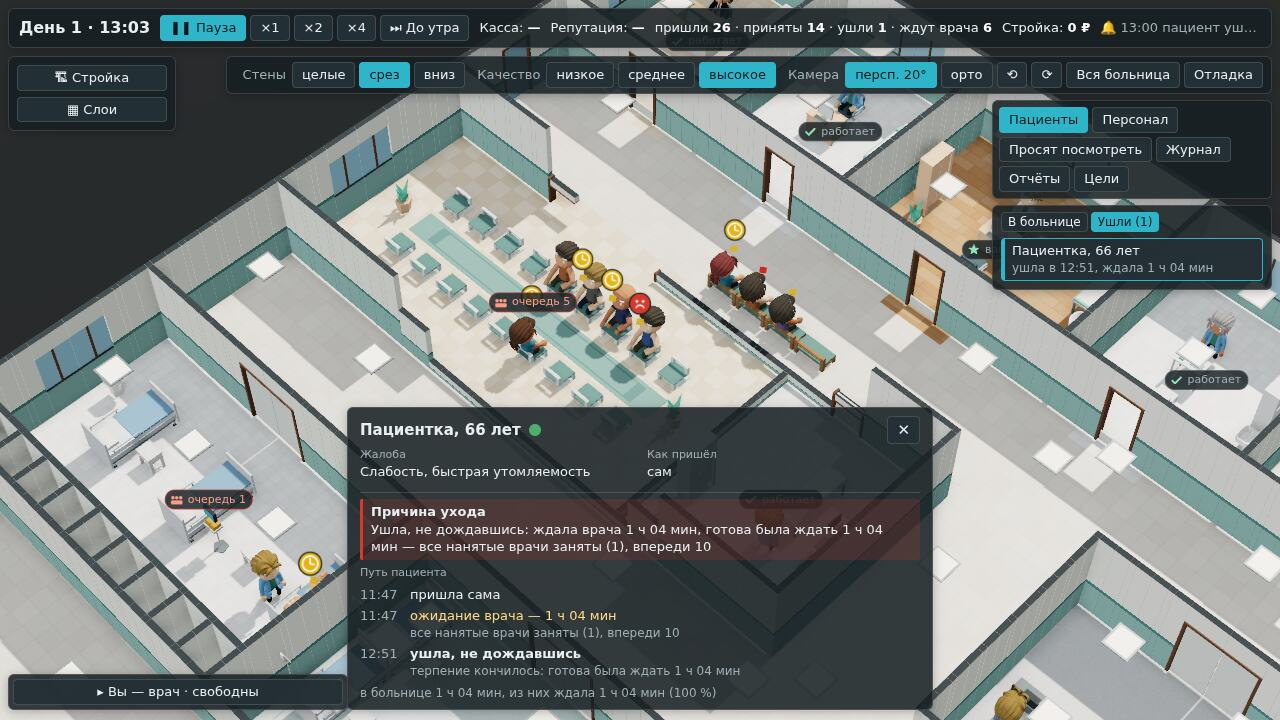
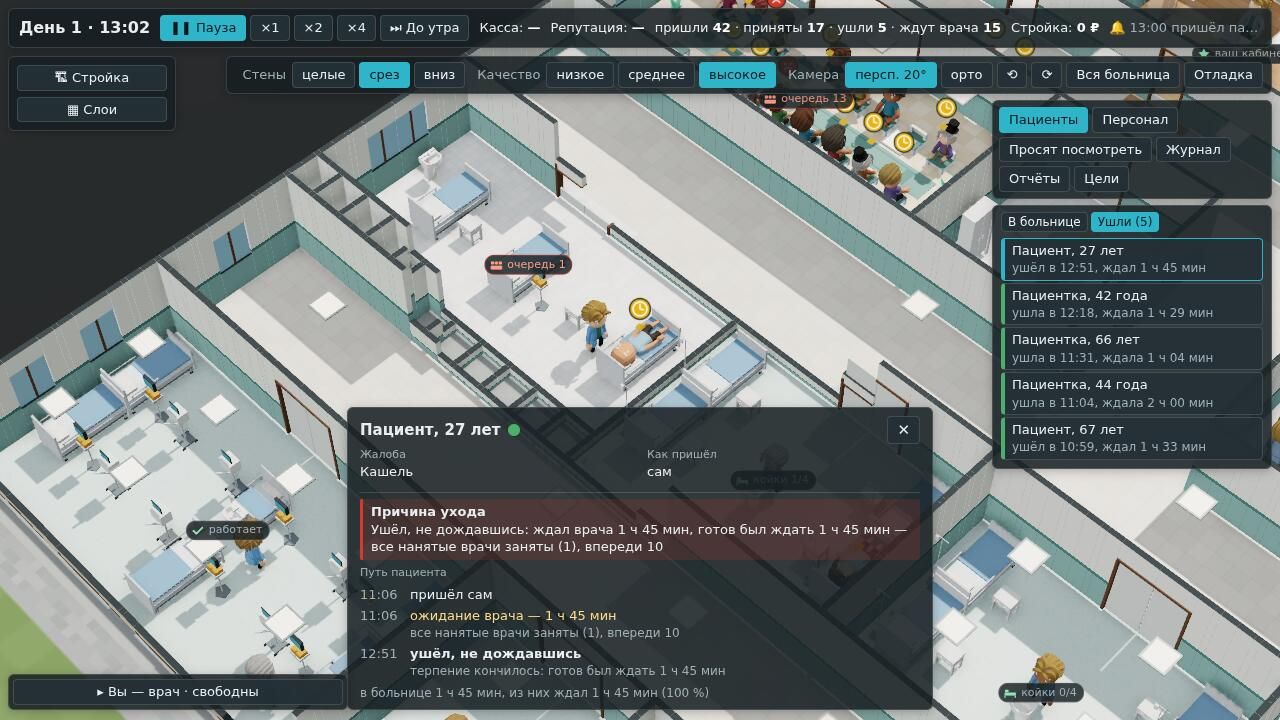
Часть 3 на коде с сутками целиком: снимки заново, бенч `main` и ветки по очереди, проверки — в спецификации
Снимки части 3 — на слитом коде (к 13:00 в зале очередь 13: поток по часам суток). Бенч — `main` e0a3491 и ветка на нём,
прогоны по очереди, каждый в своей копии: разброс одной стороны до 13 %, по средним ветка медленнее на 1,5–8 %, в парах
с равной нагрузкой — на 0–5 %; прямая цена `journey.*` — 0,2 %. `npm test` — 661, все зелёные; сценарий — 61 проверка.

Claude-Session: https://claude.ai/code/session_01YM2DkxcMJ4fGTUC8wUjV2Z

diff --git a/docs/specs/2026-10-flow-ui.md b/docs/specs/2026-10-flow-ui.md
@@ -250,14 +250,14 @@
 параллельные сессии других частей.
 
 **Что видит игрок.** В готовой больнице к полудню у единственного терапевта — очередь: над ждущими в зале — жёлтые
-часы («ждёт долго»), у того, чьё терпение на исходе, — красное недовольное лицо; кто не дождался, встаёт и идёт к выходу
-с этим значком. Над залом — «очередь 9», над смотровой — «очередь 1», над палатами — «койки 0/4», над остальными —
-«работает», «занято», «ваш кабинет». Tab открывает «Пациентов»: сверху — кто ждёт дольше всех, фильтры по срочности, месту
-и «ждут 30 мин и дольше»; щелчок — камера летит к человеку, снизу — его карточка с путём: «11:30 пришёл сам · 11:30
-ожидание врача — 1 ч 31 мин · сейчас — все нанятые врачи заняты (1), впереди 7». «Ушли» — кто ушёл, не дождавшись; у
-него в карточке первой строкой: «Причина ухода. Ушла, не дождавшись: ждала врача 1 ч 04 мин, готова была ждать 1 ч 04 мин
-— все нанятые врачи заняты (1), впереди 10». L красит пол зала и смотровой в красный, над ними — «очередь 11 · до 1 ч 11
-мин».
+часы («ждёт долго»), у тех, чьё терпение на исходе, — красное недовольное лицо; кто не дождался, встаёт и идёт к выходу
+с этим значком. Над залом — «очередь 13», над смотровой — «очередь 1», над палатами — «койки 1/4», над остальными —
+«работает», «занято», «ваш кабинет». Tab открывает «Пациентов»: сверху — кто ждёт дольше всех, фильтры по срочности,
+месту и «ждут 30 мин и дольше»; щелчок — камера летит к человеку, снизу — его карточка с путём: «11:27 привезла скорая —
+мест в смотровой не было, сначала у входа · 11:27 ожидание врача — 1 ч 35 мин · сейчас — все нанятые врачи заняты (1),
+впереди 5». «Ушли» — кто ушёл, не дождавшись; у него в карточке первой строкой: «Причина ухода. Ушёл, не дождавшись:
+ждал врача 1 ч 45 мин, готов был ждать 1 ч 45 мин — все нанятые врачи заняты (1), впереди 10». L красит пол зала и
+смотровой в красный, над ними — «очередь 13 · до 1 ч 34 мин».
 
 **Что вышло иначе или выяснилось по ходу:**
 
@@ -281,43 +281,48 @@
 
 **Проверки.**
 
-- `npm test` — 647 тестов в 38 файлах, все зелёные (на коде, слитом с `main`). Новые: `journey.test.ts` (13: только в
+- `npm test` — 661 тест в 39 файлах, все зелёные (на коде, слитом с `main`). Новые: `journey.test.ts` (13: только в
   потоке для ПК; шаги по порядку и без пустых ожиданий; причины — заняты все, никто не принимает, ждёт вас, у входа,
   стоя; ушедший — ровно своё терпение; очередь у кабинета — пока его занимал другой; свои койки заняты; просьба врача —
   ждёт ответа, направлен, решает сам; детерминизм при шаге 60 и 15 с и в потоке расчёта; путь выбранного в срезе;
   хранение — сутки, лежащих — пока лежат, не больше 600; срез и упаковка; «ждёт обследования» только при очереди) и
   `flow-ui.test.ts` (11: строки пути, нагрузка и значки помещений, цвет пола, строки и фильтры вкладки, значки
   настроения). Золотые отпечатки, `infer-speed`, разбор «Анамнеза» — те же числа.
-- `npm run e2e` — все четыре части зелёные (на коде, слитом с `main`; часть 4 — режим врача). Часть 3: окно врача
-  свёрнуто кнопкой, автопауза выключена; пациенты ходят, значки «ждёт долго» (5) и «недоволен» (1), значки 28 помещений
-  («очередь 5», «очередь 1»), «Пациенты» — фильтр «ждут врача» (6), щелчок — камера у человека (масштаб 28 → 9), путь с
-  причиной, «Ушли» — почему ушла, слой — окрашено 4 помещения, ушедший идёт к выходу со значком (13:49). Ошибок в
-  консоли и запросов наружу нет.
-- **Бенч движка** (`env -u BUN_OPTIONS npm run bench -- --mode flow --quick`), мс на игровую минуту 09:00–14:00,
-  медиана, прогоны `main` и ветки по очереди (средняя нагрузка машины — 3–7 на 4 ядра):
+- `npm run e2e` — все четыре части зелёные, 61 проверка (на коде, слитом с `main`; часть 4 — режим врача). Часть 3:
+  окно врача свёрнуто кнопкой, автопауза выключена; пациенты ходят, значки «ждёт долго» (12) и «недоволен» (2), значки
+  28 помещений («очередь 13», «очередь 1»), «Пациенты» — фильтр «ждут врача» (14), щелчок — камера у человека (масштаб
+  28 → 9), путь с причиной, «Ушли» — почему ушёл, слой — окрашено 5 помещений, ушедший идёт к выходу со значком (13:43).
+  Ошибок в консоли и запросов наружу нет.
+- **Бенч движка** (`env -u BUN_OPTIONS npm run bench -- --mode flow --quick`, `main` e0a3491 с сутками целиком и ветка
+  на нём), мс на игровую минуту, медиана за прогон; прогоны `main` и ветки по очереди, у каждого — своя копия в своём
+  каталоге (средняя нагрузка машины — 1,7–6,6 на 4 ядра: рядом шли бенчи и сценарии других частей):
 
-  | в больнице | `main` | ветка |
+  | кабинетов (в больнице, медиана / пик) | `main` | ветка |
   |---|---|---|
-  | 50 | 26,8 / 26,2 / 26,3; ещё 26,3 / 26,8 / 27,6 / 27,1 | 28,7 / 28,7; ещё 28,3 / 26,5 / 28,2 / 26,0 |
-  | 100 | 51,5 / 54,6 / 55,5 | 58,6 / 53,5 |
-  | 200 | 115,8 / 113,6 / 118,2 | 119,7 / 120,8 |
-  | 300 | 184,5 / 208,6 / 216,6 | 211,3 / 214,0 |
+  | 50 (73 / 90) | 36,0 / 34,5 / 37,3; только 50 — 33,6 / 34,1 / 34,6 / 32,9 / 37,2 | 37,4 / 40,4 / 40,4; только 50 — 38,3 / 34,0 / 36,3 / 34,5 / 42,1 |
+  | 100 (132 / 180) | 65,3 / 65,4 / 67,2 | 68,8 / 63,4 / 68,6 |
+  | 200 (274 / 304) | 152,7 / 158,1 / 154,7 | 158,8 / 160,9 / 167,2 |
+  | 300 (406 / 477) | 266,4 / 275,0 / 286,6 | 281,3 / 281,6 / 280,8 |
 
-  Разброс одной ветки между прогонами — до 10 %, поэтому цена пути измерена ещё и прямо: копия ветки, где каждая функция
-  `journey.*` засекает своё время, поток бенчмарка 08:00–14:00 — **0,21 %** времени движка на 50 человек и **0,19 %** на
-  200 (8–9 мкс на вызов вместе с засечкой, 2,8 и 10,8 тыс. вызовов). Снимок состояния на пике — +76 КБ на 50 человек (982
-  → 1058 КБ), +206 КБ на 200 (3791 → 3997 КБ), +280 КБ на 300 (5554 → 5834 КБ): пути — 6–8 % снимка.
+  Разброс одной стороны — до 13 %; по средним ветка медленнее на 1,5 % (100), 1,9 % (300), 4,6 % (200) и 8 % (50, все
+  восемь пар), а в парах с равной нагрузкой на 50 — на 0–5 %. Поток тот же до человека (в больнице — те же 73 / 90 …
+  406 / 477). Поэтому цена пути измерена ещё и прямо (до слияния с сутками целиком): копия ветки, где каждая функция
+  `journey.*` засекает своё время, поток бенчмарка 08:00–14:00 — **0,21 %** времени движка на 50 кабинетов и **0,19 %** на
+  200 (8–9 мкс на вызов вместе с засечкой, 2,8 и 10,8 тыс. вызовов); остальное — нагрузка машины и сборка мусора на
+  большем состоянии. Снимок состояния на пике: 1153 → 1235 КБ на 50, 2092 → 2238 на 100, 4513 → 4792 на 200, 6136 → 6407
+  на 300 — пути занимают 4–7 % снимка.
 
 **Снимки** — [`docs/reports/2026-10-flow-ui/`](../reports/2026-10-flow-ui/) (сценарий в браузере,
 `node tools/app/e2e.mjs --only 3 --shots high`: Chromium без окна, «высокое», 1280×720; окно врача свёрнуто):
 
-- `1-icons.jpg` — 13:03, зал ожидания крупно: над ждущими — жёлтые часы «ждёт долго» и красное лицо «недоволен», над залом —
-  «очередь 5», над смотровой — «очередь 1», над остальными помещениями — «работает», «занято», «ваш кабинет», «койки 0/4».
-- `2-left.jpg` — вкладка «Пациенты», «Ушли»: пациентка ушла в 12:51; в карточке — «Причина ухода: ушла, не дождавшись:
-  ждала врача 1 ч 04 мин, готова была ждать 1 ч 04 мин — все нанятые врачи заняты (1), впереди 10» и путь: пришла в
-  11:47, ожидание врача, «ушла, не дождавшись — терпение кончилось».
-- `3-queues.jpg` — слой «Очереди и загрузка»: пол зала и смотровой красный, над ними — «очередь 5 · до 1 ч 33 мин»,
-  «очередь 1 · до 1 ч 27 мин».
+- `1-icons.jpg` — 13:02, зал ожидания крупно: над ждущими — жёлтые часы «ждёт долго» и красные лица «недоволен», над
+  залом — «очередь 13», над смотровой — «очередь 1», над остальными помещениями — «работает», «занято», «ваш кабинет»,
+  «койки 1/4»; окно врача свёрнуто внизу слева.
+- `2-left.jpg` — вкладка «Пациенты», «Ушли» (5): пациент ушёл в 12:51; в карточке — «Причина ухода: ушёл, не дождавшись:
+  ждал врача 1 ч 45 мин, готов был ждать 1 ч 45 мин — все нанятые врачи заняты (1), впереди 10» и путь: пришёл в 11:06,
+  ожидание врача, «ушёл, не дождавшись — терпение кончилось».
+- `3-queues.jpg` — слой «Очереди и загрузка»: пол зала и смотровой красный, процедурной и палаты — зелёный, над ними —
+  «очередь 13 · до 1 ч 34 мин», «очередь 1 · до 1 ч 35 мин».
 
 **Чего нет:** персонал не ходит, каталок нет; регистрация без очереди (вопрос 6); остальные слои геймдизайна — «позже» в
 меню; отделения в фильтре — с отделениями среза; путь ушедших — в «Ушли», итог суток — экран планёрки (часть 5);
